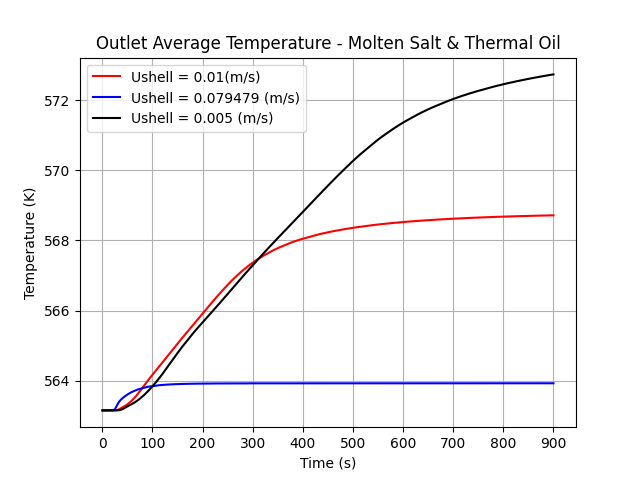
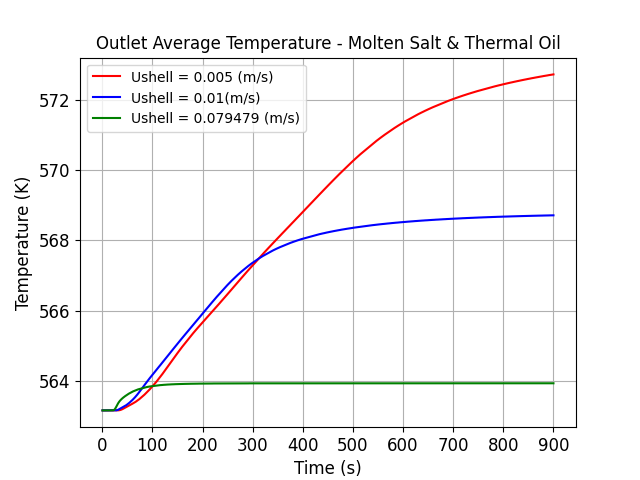
Adding last results

diff --git a/shellTubeHEX/results/transient/water-water/dataAnalysis/scripts/heatTransferRatePlot.py b/shellTubeHEX/results/transient/water-water/dataAnalysis/scripts/heatTransferRatePlot.py
@@ -3,6 +3,7 @@ import matplotlib.pyplot as plt
 import math as math 
 from matplotlib.ticker import ScalarFormatter
 
+
 # Read the CSV file into a pandas DataFrame
 
 data1 = pd.read_csv("/home/henrique/OpenFOAM/henrique-11/run/heat-exchanger-simulation/shellTubeHEX/results/transient/water-water/dataAnalysis/data/baffles/outletResultsBaffleRe1000.csv")
@@ -43,23 +44,26 @@ Q4 = cp * density * ((temperature4 - initialTemperature) * velocity4) * area * 1
 Q5 = cp * density * ((temperature5 - initialTemperature) * velocity5) * area * 1/1000 # W to kW
 Q6 = cp * density * ((temperature6 - initialTemperature) * velocity6) * area * 1/1000 # W to kW
 
-plt.plot(time900, Q1, label='Ushell = 0.01(m/s)', color='red')
-plt.plot(time900, Q2, label='Ushell = 0.03 (m/s)', color='blue')
-plt.plot(time900, Q3, label='Ushell = 0.05 (m/s)', color='green')
-#plt.plot(time900NoBaffles, Q4, label='Ushell = 0.01(m/s), No Baffles', color='red')
-#plt.plot(time900, Q5, label='Ushell = 0.03 (m/s), No Baffles', color='blue')
-#plt.plot(time900, Q6, label='Ushell = 0.05 (m/s), No Baffles', color='green')
+
+#plt.plot(time900, Q1, label='Uin = 0.01(m/s)', color='red')
+#plt.plot(time900, Q2, label='Uin = 0.03 (m/s)', color='blue')
+#plt.plot(time900, Q3, label='Uin = 0.05 (m/s)', color='green')
+plt.plot(time900NoBaffles, Q4, label='Uin = 0.01(m/s), No Baffles', color='red', linestyle='dashed')
+plt.plot(time900, Q5, label='Uin = 0.03 (m/s), No Baffles', color='blue', linestyle='dashed')
+plt.plot(time900, Q6, label='Uin = 0.05 (m/s), No Baffles', color='green', linestyle='dashed')
 
 
 plt.legend()
-plt.xlabel('Time (s)')
-plt.ylabel('Heat Transfer Rate (kW)')
-plt.title('Heat Transfer Rate - With Baffles ')
-#plt.title('Heat Transfer Rate - Without Baffles ')
-plt.xticks(range(0, int(max(time900)) + 100, 100))
+plt.xlabel('Time (s)', fontsize=12)
+plt.ylabel('Heat Transfer Rate (kW)',fontsize=12)
+plt.ylim(0, 5)
+#plt.title('Heat Transfer Rate - With Baffles ', fontsize=12)
+plt.title(r'Heat Transfer Rate - Without Baffles ', fontsize=12)
+plt.xticks(range(0, int(max(time900)) + 100, 100), fontsize=12)
+plt.yticks(fontsize=12)
 
 plt.grid(True)
 
-fileName ="heatTransferRateBaffle"
+fileName ="heatTransferRateNoBaffle"
 plt.savefig('/home/henrique/OpenFOAM/henrique-11/run/heat-exchanger-simulation/shellTubeHEX/results/transient/water-water/dataAnalysis/plots/general/'+fileName+'.png')
 plt.show()

diff --git a/shellTubeHEX/results/transient/water-water/dataAnalysis/scripts/temperaturePlot.py b/shellTubeHEX/results/transient/water-water/dataAnalysis/scripts/temperaturePlot.py
@@ -25,20 +25,22 @@ time900NoBaffles = data4["Time"]
 
 # Choose the data to plot (Please select pairs 1-4, 2-5, 3-6)
 
-#plt.plot(time900, temperature1, label='Baffles', color='red')
-#plt.plot(time900, temperature2, label='Baffles', color='blue')
-plt.plot(time900, temperature3, label='Baffles', color='green')
-#plt.plot(time900NoBaffles, temperature4, label='No Baffles', color='black')
-#plt.plot(time900, temperature5, label='No Baffles', color='orange')
-plt.plot(time900, temperature6, label='No Baffles', color='purple')
+plt.plot(time900, temperature1, label='uin = 0.01, Baffles', color='red')
+plt.plot(time900NoBaffles, temperature4, label='uin = 0.01, No Baffles', color='red', linestyle='dashed')
+plt.plot(time900, temperature2, label='uin = 0.03, Baffles', color='blue')
+plt.plot(time900, temperature5, label='uin = 0.03, No Baffles', color='blue', linestyle='dashed')
+plt.plot(time900, temperature3, label='uin = 0.05, Baffles', color='green')
+plt.plot(time900, temperature6, label='uin = 0.05, No Baffles', color='green', linestyle='dashed')
 
-plt.legend()
-plt.xlabel('Time (s)')
-plt.ylabel('Temperature (K)')
-plt.title('Outlet Average Temperature - Shell inlet velocity = 0.05 (m/s)')
-plt.xticks(range(0, int(max(time900)) + 100, 100))
-fileName ="TemperatureBaffleNoBaffleRe5000"
-plt.savefig('/home/henrique/OpenFOAM/henrique-11/run/heat-exchanger-simulation/shellTubeHEX/results/transient/water-water/dataAnalysis/plots/Re5000/'+fileName+'.png')
+
+plt.legend(fontsize= 12)
+plt.xlabel('Time (s)', fontsize= 20)
+plt.ylabel('Temperature (K)', fontsize= 20)
+plt.title('Shell Outlet Average Temperature - Baffles & No Baffles', fontsize= 20)
+plt.xticks(range(0, int(max(time900)) + 100, 100), fontsize= 20)
+plt.yticks(fontsize= 20)
+fileName ="TemperatureGeneral"
+plt.savefig('/home/henrique/OpenFOAM/henrique-11/run/heat-exchanger-simulation/shellTubeHEX/results/transient/water-water/dataAnalysis/plots/test/'+fileName+'.png')
 plt.show()
 
 

diff --git a/shellTubeHEX/results/transient/moltenSalt-oil/dataAnalysis/scripts/temperaturePlot.py b/shellTubeHEX/results/transient/moltenSalt-oil/dataAnalysis/scripts/temperaturePlot.py
@@ -18,16 +18,18 @@ time900 = data1["Time"]
 
 # Choose the data to plot (Please select pairs 1-4, 2-5, 3-6)
 
-plt.plot(time900, temperature1, label='Ushell = 0.01(m/s)', color='red')
+plt.plot(time900, temperarture3, label='Ushell = 0.005 (m/s)', color='red')
+plt.plot(time900, temperature1, label='Ushell = 0.01(m/s)', color='blue')
 #plt.plot(time900, temperature1v2, label='Ushell = 0.01 (m/s) - No Resistance', color='green')
-plt.plot(time900, temperature2, label='Ushell = 0.079479 (m/s)', color='blue')
-plt.plot(time900, temperarture3, label='Ushell = 0.005 (m/s)', color='black')
+plt.plot(time900, temperature2, label='Ushell = 0.079479 (m/s)', color='green')
+
 
 plt.legend()
-plt.xlabel('Time (s)')
-plt.ylabel('Temperature (K)')
-plt.title('Outlet Average Temperature - Molten Salt & Thermal Oil')
-plt.xticks(range(0, int(max(time900)) + 100, 100))
+plt.xlabel('Time (s)', fontsize = 12)
+plt.ylabel('Temperature (K)',  fontsize = 12)
+plt.title('Outlet Average Temperature - Molten Salt & Thermal Oil',  fontsize = 12)
+plt.xticks(range(0, int(max(time900)) + 100, 100),  fontsize = 12)
+plt.yticks( fontsize = 12)
 fileName ="TemperaturePlotGerenal"
 plt.savefig('/home/henrique/OpenFOAM/henrique-11/run/heat-exchanger-simulation/shellTubeHEX/results/transient/moltenSalt-oil/dataAnalysis/plots/' + fileName + '.png')
 plt.show()

diff --git a/shellTubeHEX/results/transient/moltenSalt-oil/dataAnalysis/scripts/heatTransferRatePlot.py b/shellTubeHEX/results/transient/moltenSalt-oil/dataAnalysis/scripts/heatTransferRatePlot.py
@@ -34,16 +34,17 @@ Q1v2 = cp * density * ((temperature1v2 - initialTemperature) * velocity1v2) * ar
 Q2 = cp * density * ((temperature2 - initialTemperature) * velocity2) * area * 1/1000 # W to kW
 Q3 = cp * density * ((temperature3 - initialTemperature) * velocity3) * area * 1/1000 # W to kW
 
-plt.plot(time900, Q3, label='Ushell = 0.005(m/s)', color='black')
-plt.plot(time900, Q1, label='Ushell = 0.01(m/s)', color='red')
+plt.plot(time900, Q3, label='Ushell = 0.005(m/s)', color='red')
+plt.plot(time900, Q1, label='Ushell = 0.01(m/s)', color='blue')
 #plt.plot(time900, Q1v2, label='Ushell = 0.01(m/s) - No Resistance', color='green')
-plt.plot(time900, Q2, label='Ushell = 0.079479(m/s)', color='blue')
+plt.plot(time900, Q2, label='Ushell = 0.079479(m/s)', color='green')
 
 plt.legend()
-plt.xlabel('Time (s)')
-plt.ylabel('Heat Transfer Rate (kW)')
-plt.title('Heat Transfer Rate - Molten Salt & Thermal Oil ')
-plt.xticks(range(0, int(max(time900)) + 100, 100))
+plt.xlabel('Time (s)', fontsize = 12)
+plt.ylabel('Heat Transfer Rate (kW)', fontsize = 12)
+plt.title('Heat Transfer Rate - Molten Salt & Thermal Oil ', fontsize = 12)
+plt.xticks(range(0, int(max(time900)) + 100, 100), fontsize = 12 )
+plt.yticks(fontsize = 12)
 
 plt.grid(True)
 

diff --git a/shellTubeHEX/results/transient/water-water/dataAnalysis/scripts/temperatureDiferencePlot.py b/shellTubeHEX/results/transient/water-water/dataAnalysis/scripts/temperatureDiferencePlot.py
@@ -29,14 +29,14 @@ time900NoBaffles = data4["Time"]
 
 # Choose the data to plot (Please select pairs 1-4, 2-5, 3-6)
 
-plt.plot(time900, diff1, label='Ushell = 0.01(m/s)', color='red')
-plt.plot(time900, diff2, label='Ushell = 0.03 (m/s)', color='blue')
-plt.plot(time900, diff3, label='Ushell = 0.05 (m/s)', color='green')
+plt.plot(time900, diff1, label='Uin = 0.01(m/s)', color='red')
+plt.plot(time900, diff2, label='Uin = 0.03 (m/s)', color='blue')
+plt.plot(time900, diff3, label='Uin = 0.05 (m/s)', color='green')
 
 plt.legend()
 plt.xlabel('Time (s)')
 plt.ylabel('Temperature (K)')
-plt.title('Outlet Average Temperature - Baffles vs No Baffles')
+plt.title('Outlet Average Temperature - Difference Baffles & No Baffles')
 plt.xticks(range(0, int(max(time900)) + 100, 100))
 
 fileName ="temperatureDifferenceBaffleNoBaffle"
